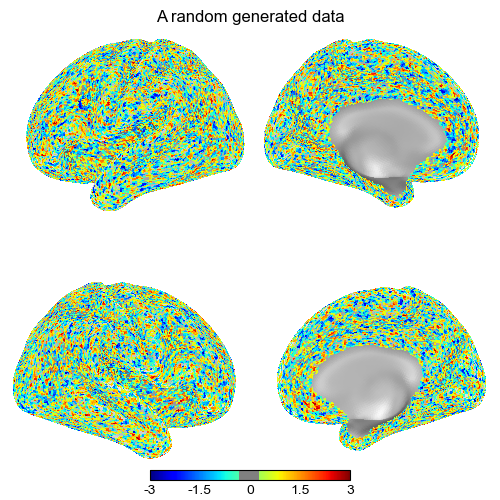
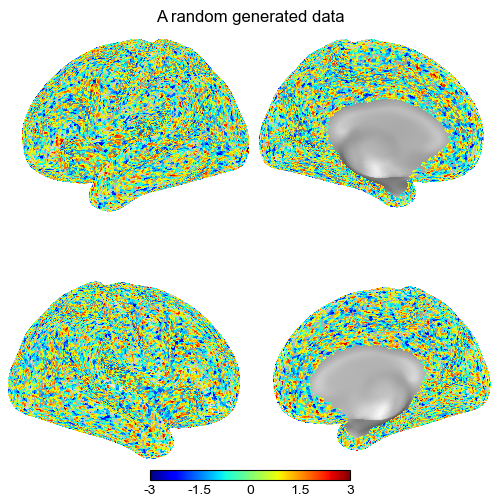
changed multithread

diff --git a/surfplot_helper/plotting.py b/surfplot_helper/plotting.py
@@ -7,17 +7,42 @@ import matplotlib as mpl
 from matplotlib import font_manager
 import matplotlib.pyplot as plt
 from matplotlib.cm import ScalarMappable
+from concurrent.futures import ThreadPoolExecutor
 from surfplot_helper.wbplot_images import write_parcellated_image # from wb plot images
 from zipfile import ZipFile
 import nibabel as nib
-from nilearn.plotting.surf_plotting import plot_surf_stat_map
-from nilearn.plotting.img_plotting import _get_colorbar_and_data_ranges
-from nilearn.plotting.surf_plotting import _get_ticks_matplotlib, _get_cmap_matplotlib
+from nilearn.plotting.surf_plotting import plot_surf_stat_map, _get_ticks_matplotlib, _get_cmap_matplotlib
+from nilearn.plotting.img_plotting import get_colorbar_and_data_ranges
 #custom functions
 from .utils.cifti_util import *
 from .utils.cifti_util import _fetch_fsLR_32k_surf
 from .utils.plot_util import add_colorbar_png, add_title_png
 
+
+
+def parallel_plot_surf(plot_args, fig, threshold, symmetric_cbar, cmap):
+    """parallel computation"""
+    with ThreadPoolExecutor(max_workers=4) as executor:
+        futures = []
+        for args in plot_args:
+            surf, data, hemi, view, bg_map, ax = args
+            future = executor.submit(
+                plot_surf_stat_map,
+                surf, data,
+                hemi=hemi,
+                view=view,
+                bg_map=bg_map,
+                colorbar=False,
+                threshold=threshold,
+                symmetric_cbar=symmetric_cbar,
+                cmap=cmap,
+                axes=ax,
+                figure=fig
+            )
+            futures.append(future)
+        # wait for all to complete
+        for future in futures:
+            future.result()
 
 
 def plot_surface_data_fsLR(data, file_output=None, surf_type='inflated', title=None, colorbar=True, vrange=None, 
@@ -57,28 +82,50 @@ def plot_surface_data_fsLR(data, file_output=None, surf_type='inflated', title=N
         cbar_coord = [0.92, 0.25, 0.02, 0.55]
         cbar_orient = 'vertical'
         title_y=0.98
-        
+
+        # function parameter for
+        plot_args = [
+            (fsLR_32k_surf_L, data_lh, 'left', 'lateral', fsLR_32k_sulc_L, axes[0]),
+            (fsLR_32k_surf_L, data_lh, 'left', 'medial', fsLR_32k_sulc_L, axes[1]),
+            (fsLR_32k_surf_R, data_rh, 'right', 'lateral', fsLR_32k_sulc_R, axes[2]),
+            (fsLR_32k_surf_R, data_rh, 'right', 'medial', fsLR_32k_sulc_R, axes[3]),
+        ]
+        #manipulate the parallel plottings
+        parallel_plot_surf(plot_args, fig, threshold, symmetric_cbar, cmap)
+
+
         # Plot the left and righ hemisphere
-        plot_surf_stat_map(fsLR_32k_surf_L, data_lh, hemi='left', view='lateral', bg_map=fsLR_32k_sulc_L ,colorbar=False, threshold=threshold, symmetric_cbar=symmetric_cbar, cmap=cmap, axes=axes[0], figure=fig)
-        plot_surf_stat_map(fsLR_32k_surf_L, data_lh, hemi='left', view='medial', bg_map=fsLR_32k_sulc_L ,colorbar=False, threshold=threshold, symmetric_cbar=symmetric_cbar, cmap=cmap, axes=axes[1],figure=fig)
-        plot_surf_stat_map(fsLR_32k_surf_R, data_rh, hemi='right', view='lateral', bg_map=fsLR_32k_sulc_R, colorbar=False, threshold=threshold, symmetric_cbar=symmetric_cbar,  cmap=cmap, axes=axes[2],figure=fig)
-        plot_surf_stat_map(fsLR_32k_surf_R, data_rh, hemi='right', view='medial', bg_map=fsLR_32k_sulc_R, colorbar=False, threshold=threshold, symmetric_cbar=symmetric_cbar,  cmap=cmap, axes=axes[3],figure=fig)
-        
+        # plot_surf_stat_map(fsLR_32k_surf_L, data_lh, hemi='left', view='lateral', bg_map=fsLR_32k_sulc_L ,colorbar=False, threshold=threshold, symmetric_cbar=symmetric_cbar, cmap=cmap, axes=axes[0], figure=fig)
+        # plot_surf_stat_map(fsLR_32k_surf_L, data_lh, hemi='left', view='medial', bg_map=fsLR_32k_sulc_L ,colorbar=False, threshold=threshold, symmetric_cbar=symmetric_cbar, cmap=cmap, axes=axes[1],figure=fig)
+        # plot_surf_stat_map(fsLR_32k_surf_R, data_rh, hemi='right', view='lateral', bg_map=fsLR_32k_sulc_R, colorbar=False, threshold=threshold, symmetric_cbar=symmetric_cbar,  cmap=cmap, axes=axes[2],figure=fig)
+        # plot_surf_stat_map(fsLR_32k_surf_R, data_rh, hemi='right', view='medial', bg_map=fsLR_32k_sulc_R, colorbar=False, threshold=threshold, symmetric_cbar=symmetric_cbar,  cmap=cmap, axes=axes[3],figure=fig)
+        #
         # reduce viewing distance to remove space around mesh
         for i in range(4): axes[i].set_box_aspect(None, zoom=1.5)
         plt.subplots_adjust(left=0.01, bottom=0.01, right=0.9, top=0.99, wspace=0.05, hspace=0)
-        
+
     elif orientation=='square':
         _default_figsize = (5,5)
         fig, axes = plt.subplots(2, 2, figsize=_default_figsize, subplot_kw={'projection': '3d'}) 
         cbar_coord = [0.3, 0.04, 0.4, 0.02]
         cbar_orient = 'horizontal'
         title_y = 0.98
+
+        #
+        plot_args = [
+            (fsLR_32k_surf_L, data_lh, 'left', 'lateral', fsLR_32k_sulc_L, axes[0, 0]),
+            (fsLR_32k_surf_L, data_lh, 'left', 'medial', fsLR_32k_sulc_L, axes[0, 1]),
+            (fsLR_32k_surf_R, data_rh, 'right', 'lateral', fsLR_32k_sulc_R, axes[1, 0]),
+            (fsLR_32k_surf_R, data_rh, 'right', 'medial', fsLR_32k_sulc_R, axes[1, 1]),
+        ]
+
+        parallel_plot_surf(plot_args, fig, threshold, symmetric_cbar, cmap)
+
         # Plot the left and righ hemisphere
-        plot_surf_stat_map(fsLR_32k_surf_L, data_lh, hemi='left', view='lateral', bg_map=fsLR_32k_sulc_L,colorbar=False, threshold=threshold, symmetric_cbar=symmetric_cbar, cmap=cmap, axes=axes[0,0], figure=fig)
-        plot_surf_stat_map(fsLR_32k_surf_L, data_lh, hemi='left', view='medial', bg_map=fsLR_32k_sulc_L, colorbar=False, threshold=threshold, symmetric_cbar=symmetric_cbar, cmap=cmap, axes=axes[0,1],figure=fig)
-        plot_surf_stat_map(fsLR_32k_surf_R, data_rh, hemi='right', view='lateral', bg_map=fsLR_32k_sulc_R, colorbar=False, threshold=threshold, symmetric_cbar=symmetric_cbar,  cmap=cmap, axes=axes[1,0],figure=fig)
-        plot_surf_stat_map(fsLR_32k_surf_R, data_rh, hemi='right', view='medial', bg_map=fsLR_32k_sulc_R, colorbar=False, threshold=threshold, symmetric_cbar=symmetric_cbar,  cmap=cmap, axes=axes[1,1],figure=fig)
+        # plot_surf_stat_map(fsLR_32k_surf_L, data_lh, hemi='left', view='lateral', bg_map=fsLR_32k_sulc_L,colorbar=False, threshold=threshold, symmetric_cbar=symmetric_cbar, cmap=cmap, axes=axes[0,0], figure=fig)
+        # plot_surf_stat_map(fsLR_32k_surf_L, data_lh, hemi='left', view='medial', bg_map=fsLR_32k_sulc_L, colorbar=False, threshold=threshold, symmetric_cbar=symmetric_cbar, cmap=cmap, axes=axes[0,1],figure=fig)
+        # plot_surf_stat_map(fsLR_32k_surf_R, data_rh, hemi='right', view='lateral', bg_map=fsLR_32k_sulc_R, colorbar=False, threshold=threshold, symmetric_cbar=symmetric_cbar,  cmap=cmap, axes=axes[1,0],figure=fig)
+        # plot_surf_stat_map(fsLR_32k_surf_R, data_rh, hemi='right', view='medial', bg_map=fsLR_32k_sulc_R, colorbar=False, threshold=threshold, symmetric_cbar=symmetric_cbar,  cmap=cmap, axes=axes[1,1],figure=fig)
         
         for i,j in itertools.product(range(2), repeat=2): 
             axes[i,j].set_box_aspect(None, zoom=1.5)
@@ -91,7 +138,7 @@ def plot_surface_data_fsLR(data, file_output=None, surf_type='inflated', title=N
     if colorbar and np.any(data!=0):
         if isinstance(cmap, str): cmap = plt.get_cmap(cmap)
         if vrange is None: # get the adpated range if not provided with vmax
-            cbar_vmin, cbar_vmax, vmin, vmax = _get_colorbar_and_data_ranges(np.concatenate((data_lh,data_rh)), vmax=None, symmetric_cbar=symmetric_cbar)
+            cbar_vmin, cbar_vmax, vmin, vmax = get_colorbar_and_data_ranges(np.concatenate((data_lh,data_rh)), vmax=None, symmetric_cbar=symmetric_cbar)
             cbar_vmin = cbar_vmin if cbar_vmin is not None else vmin
             cbar_vmax = cbar_vmax if cbar_vmax is not None else vmax
         else:
@@ -101,7 +148,7 @@ def plot_surface_data_fsLR(data, file_output=None, surf_type='inflated', title=N
             our_cmap, norm = _get_cmap_matplotlib(cmap, cbar_vmin, cbar_vmax, threshold)
         else:
             our_cmap, norm = _get_cmap_matplotlib(cmap, cbar_vmin, cbar_vmax)
-        ticks = _get_ticks_matplotlib(cbar_vmin, cbar_vmax, cbar_tick_format)
+        ticks = _get_ticks_matplotlib(cbar_vmin, cbar_vmax, cbar_tick_format, threshold=None)
         bounds = np.linspace(cbar_vmin, cbar_vmax, our_cmap.N)
 
         # we need to create a proxy mappable

diff --git a/plot_example.py b/plot_example.py
@@ -1,6 +1,6 @@
 import numpy as np
 from surfplot_helper.plotting import plot_surface_data_fsLR
-
+from time import time
 ############## Example one - plot fsLR_32k surface ############## 
 
 # generate a random den-91k scalar data 
@@ -11,15 +11,24 @@ file_output = 'fsLR_32_surf_example.png'
 cmap = 'jet'  # matplotlib compatible colormap
 threshold = 0.3 # not display the value with absvalue < 0.3
 figure_title = 'A random generated data'
-# plot_surface_data_fsLR(data, file_output, surf_type='inflated',threshold = threshold, cmap=cmap, title=figure_title)
 
+t1 = time()
+plot_surface_data_fsLR(data, file_output, surf_type='inflated',threshold = threshold, cmap=cmap, title=figure_title, orientation='landscape')
+t2 = time()
+duration = t2-t1
+print(f'original data caused {duration:.2f} seconds ')
 
+t1 = time()
+plot_surface_data_fsLR(data, file_output, surf_type='inflated',threshold = threshold, cmap=cmap, title=figure_title, orientation='square')
+t2 = time()
+duration = t2-t1
+print(f'threaded data caused {duration:.2f} seconds ')
 
 ############## Example two - plot kong400 parcellation ############## 
 
-from surfplot_helper.plotting import plot_Kong_parcellation
-
-data = np.random.uniform(low=-3, high=3, size=400)
-cmap = 'nipy_spectral'
-file_output = 'Kong400_random.png'
-plot_Kong_parcellation(data, file_output, surf_type='inflated', cmap= cmap, title='Kong400_random', title_position=200)
+# from surfplot_helper.plotting import plot_Kong_parcellation
+#
+# data = np.random.uniform(low=-3, high=3, size=400)
+# cmap = 'nipy_spectral'
+# file_output = 'Kong400_random.png'
+# plot_Kong_parcellation(data, file_output, surf_type='inflated', cmap= cmap, title='Kong400_random', title_position=200)
